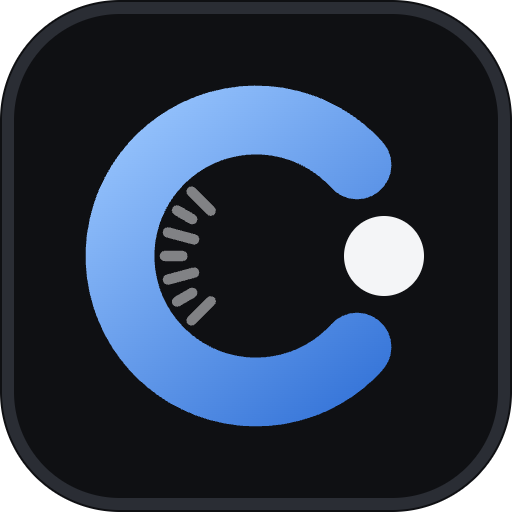
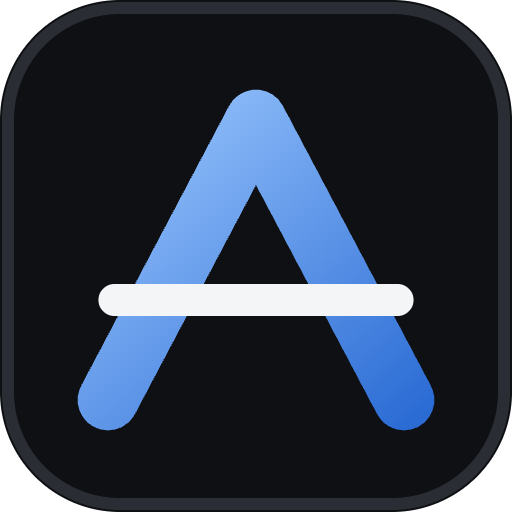
feat(brand): rename to Alfa with a new mark
Alfa is alpha, the excess return over a benchmark, which is the gap this
screen measures and what the alpha map already plots x97 so the copy leans on
it rather than treating the name as decoration.

The mark is redrawn from scratch: the letter A whose strokes climb to a peak,
crossed by a pale bar standing for the benchmark it rises above, with a small
overhang so it reads as an axis and not only as a letterform. Re-rasterised
to favicon.ico (16 and 32), a 180px Apple touch icon and a 512px PNG. Brand
text, metadata, README, maintainer guide and user agents follow. The GitHub
repository keeps its existing URL.

Changed region(s): [[0.1562, 0.1562, 0.8438, 0.8438]]

diff --git a/src/components/header.tsx b/src/components/header.tsx
@@ -54,10 +54,10 @@ export function PageHeader({
         <Link
           href="/"
           className="group flex items-center gap-2.5 rounded-full"
-          aria-label="Cipher — home"
+          aria-label="Alfa — home"
         >
           <Mark />
-          <span className="text-display text-[16px] leading-none">Cipher</span>
+          <span className="text-display text-[16px] leading-none">Alfa</span>
           <span
             className={cn(
               "text-ink-faint hidden overflow-hidden text-[12px] whitespace-nowrap transition-all lg:inline-block",
@@ -171,14 +171,14 @@ function Mark() {
       }}
       aria-hidden
     >
-      {/* The C of Cipher, closing on a single point. As icon.svg, without the ticks. */}
-      <svg viewBox="0 0 64 64" className="size-[86%]">
+      {/* The A of Alfa: a climb crossing its benchmark. Same drawing as icon.svg. */}
+      <svg viewBox="0 0 64 64" className="size-[82%]">
         <defs>
           <linearGradient
             id={gradientId}
-            x1="14"
+            x1="13.5"
             y1="12"
-            x2="50"
+            x2="50.5"
             y2="54"
             gradientUnits="userSpaceOnUse"
           >
@@ -187,13 +187,19 @@ function Mark() {
           </linearGradient>
         </defs>
         <path
-          d="M44.63 20.62 A17.0 17.0 0 1 0 44.63 43.38"
+          d="M13.5 50.0 L32.0 15.0 L50.5 50.0"
           fill="none"
           stroke={`url(#${gradientId})`}
-          strokeWidth="8.6"
+          strokeWidth="7.6"
+          strokeLinecap="round"
+          strokeLinejoin="round"
+        />
+        <path
+          d="M14.3 37.5 H49.7"
+          stroke="var(--color-ink)"
+          strokeWidth="4"
           strokeLinecap="round"
         />
-        <circle cx="48.00" cy="32" r="5" fill="var(--color-ink)" />
       </svg>
     </span>
   );

diff --git a/src/app/layout.tsx b/src/app/layout.tsx
@@ -9,13 +9,13 @@ import { TRPCReactProvider } from "~/trpc/react";
 
 export const metadata: Metadata = {
   title: {
-    default: "Cipher — what a chain earns against what it costs",
-    template: "%s — Cipher",
+    default: "Alfa — what a chain earns against what it costs",
+    template: "%s — Alfa",
   },
   description:
-    "Cipher measures the gap between what each major chain earns and what it costs, and ranks them by it. Built on DefiLlama, Artemis and Mayan.",
+    "Alfa measures the gap between what each major chain earns and what it costs — the alpha hiding in that gap — and ranks 85 chains by it. Built on DefiLlama, Artemis and Mayan.",
   openGraph: {
-    title: "Cipher — what a chain earns against what it costs",
+    title: "Alfa — what a chain earns against what it costs",
     description:
       "A valuation screen for blockchains: fundamentals versus what the market pays.",
     type: "website",

diff --git a/src/server/sources/news.ts b/src/server/sources/news.ts
@@ -203,7 +203,7 @@ export function fetchHeadlines(
             headers: {
               accept: "application/rss+xml, application/xml, text/xml",
               "user-agent":
-                "Mozilla/5.0 (compatible; cipher/1.0; +valuation research dashboard)",
+                "Mozilla/5.0 (compatible; alfa/1.0; +valuation research dashboard)",
             },
           });
           if (!response.ok) return { chain, found: 0, items: [] };

diff --git a/src/server/sources/l2beat.ts b/src/server/sources/l2beat.ts
@@ -59,7 +59,7 @@ export function fetchRollupNames() {
           // L2Beat serves this from its own web app and rejects a bare client.
           headers: {
             "user-agent":
-              "Mozilla/5.0 (compatible; cipher/1.0; +valuation research dashboard)",
+              "Mozilla/5.0 (compatible; alfa/1.0; +valuation research dashboard)",
           },
         },
       );

diff --git a/src/server/lib/http.ts b/src/server/lib/http.ts
@@ -66,7 +66,7 @@ export async function fetchJson<T>(
         cache: "no-store",
         headers: {
           accept: "application/json",
-          "user-agent": "cipher/1.0 (+valuation research dashboard)",
+          "user-agent": "alfa/1.0 (+valuation research dashboard)",
           ...(body ? { "content-type": "application/json" } : {}),
           ...headers,
         },

diff --git a/AGENTS.md b/AGENTS.md
@@ -1,6 +1,6 @@
-# Cipher — maintainer guide for coding agents
+# Alfa — maintainer guide for coding agents
 
-Cipher is a valuation screen for blockchains: it measures the gap between what
+Alfa is a valuation screen for blockchains: it measures the gap between what
 a chain earns and what it costs, ranks 85 chains by it, and surrounds the
 ranking with market context. Next.js 15 (App Router), tRPC 11, TanStack Query 5,
 Tailwind v4, zustand, TypeScript strict. This file is the operating manual; the
@@ -130,4 +130,6 @@ restart the dev server, and warm `/api/trpc/chains.meta` and
   explaining why, co-author trailer when an agent authored it.
 - Docblocks explain decisions and the evidence for them, including what was
   tried and removed. Keep them current when the decision changes.
-- Names rejected for this app: Assay, ChainFather, Par, Fathom, Caliper. It is Cipher.
+- Names rejected for this app: Assay, ChainFather, Par, Fathom, Caliper, Cipher.
+  It is Alfa — alpha, the excess return over a benchmark, which is the gap this
+  screen measures and what the alpha map plots.

diff --git a/README.md b/README.md
@@ -1,4 +1,4 @@
-# Cipher
+# Alfa
 
 A valuation screen for blockchains. It answers one question:
 
